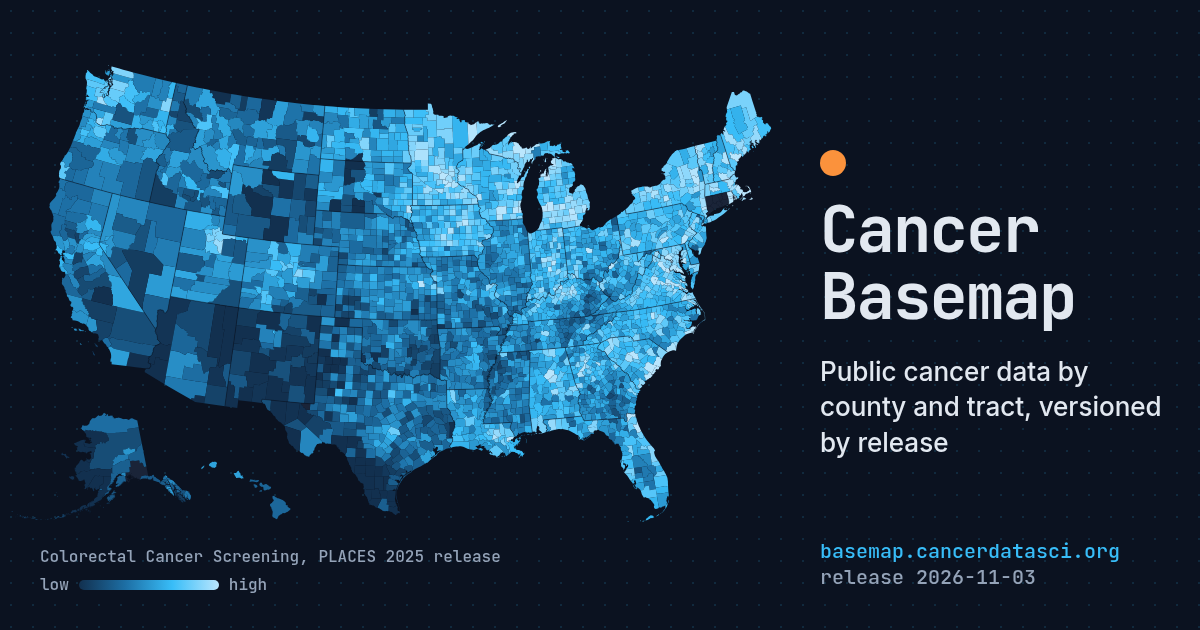
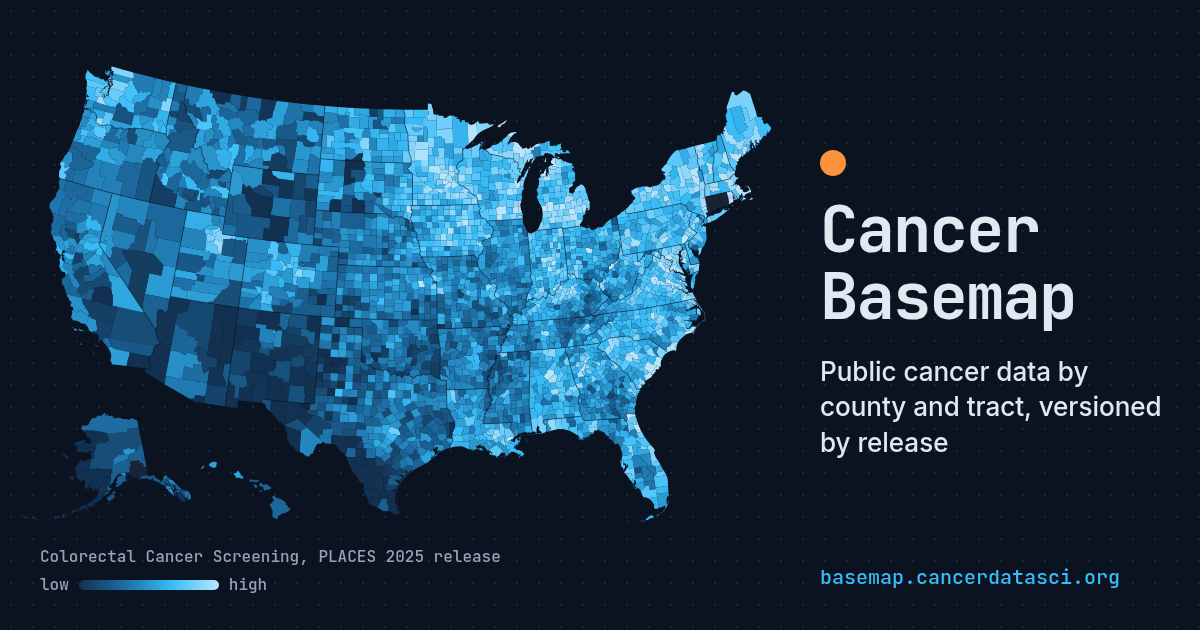
site: social card without a release date, so it doesn't go stale (#220)

Changed region(s): [[0.6783, 0.8444, 0.9558, 0.9349]]

diff --git a/site/social/card.html b/site/social/card.html
@@ -28,7 +28,7 @@
   <h1>Cancer Basemap</h1>
   <p>Public cancer data by county and tract, versioned by release</p>
 </div>
-<div class="meta"><b>basemap.cancerdatasci.org</b><br>release __RELEASE__</div>
+<div class="meta"><b>basemap.cancerdatasci.org</b></div>
 <script type="module">
   import { geoPath, geoAlbersUsa } from "https://cdn.jsdelivr.net/npm/d3-geo@3.1.1/+esm";
   import { feature, mesh } from "https://cdn.jsdelivr.net/npm/topojson-client@3.1.0/+esm";

diff --git a/site/social/make_card.py b/site/social/make_card.py
@@ -2,11 +2,11 @@
 
 Regenerate:  uvx --from playwright python site/social/make_card.py
 The map is the landing page's build-time extract (site/extracts/home_map.json);
-the release date is read from the live manifest. Needs network for the CDN
+no release date on the card, so it doesn't go stale between releases (the
+map legend names its own source and edition). Needs network for the CDN
 libraries (d3-geo, topojson-client, us-atlas) and web fonts.
 """
 import json
-import urllib.request
 from pathlib import Path
 
 from playwright.sync_api import sync_playwright
@@ -15,11 +15,6 @@ HERE = Path(__file__).parent
 SITE = HERE.parent
 CHROME = "/home/davsean/.cache/ms-playwright/chromium-1223/chrome-linux64/chrome"
 MEASURE, YEAR = "PLACES:COLON_SCREEN:age_adjusted", "2025"
-MANIFEST = "https://basemap.cancerdatasci.org/data/latest/manifest.json"
-
-# Cloudflare blocks urllib's default User-Agent.
-req = urllib.request.Request(MANIFEST, headers={"User-Agent": "cancer-basemap-social-card/1.0"})
-release = json.load(urllib.request.urlopen(req, timeout=30))["release"]
 
 data = json.loads((SITE / "extracts/home_map.json").read_text())
 label = next(m["label"] for m in data["measures"] if m["id"] == MEASURE)
@@ -28,7 +23,6 @@ html = (
     .replace("__ROWS__", json.dumps(data["obs"][YEAR][MEASURE]))
     .replace("__MEASURE__", label)
     .replace("__YEAR__", f"PLACES {YEAR} release")
-    .replace("__RELEASE__", release)
 )
 out = HERE / "card.rendered.html"  # scratch; served via file:// so the module imports work
 out.write_text(html)
@@ -41,4 +35,4 @@ with sync_playwright() as p:
     page.screenshot(path=str(SITE / "social-card.png"))
     browser.close()
 out.unlink()
-print(f"wrote site/social-card.png (release {release})")
+print("wrote site/social-card.png")
